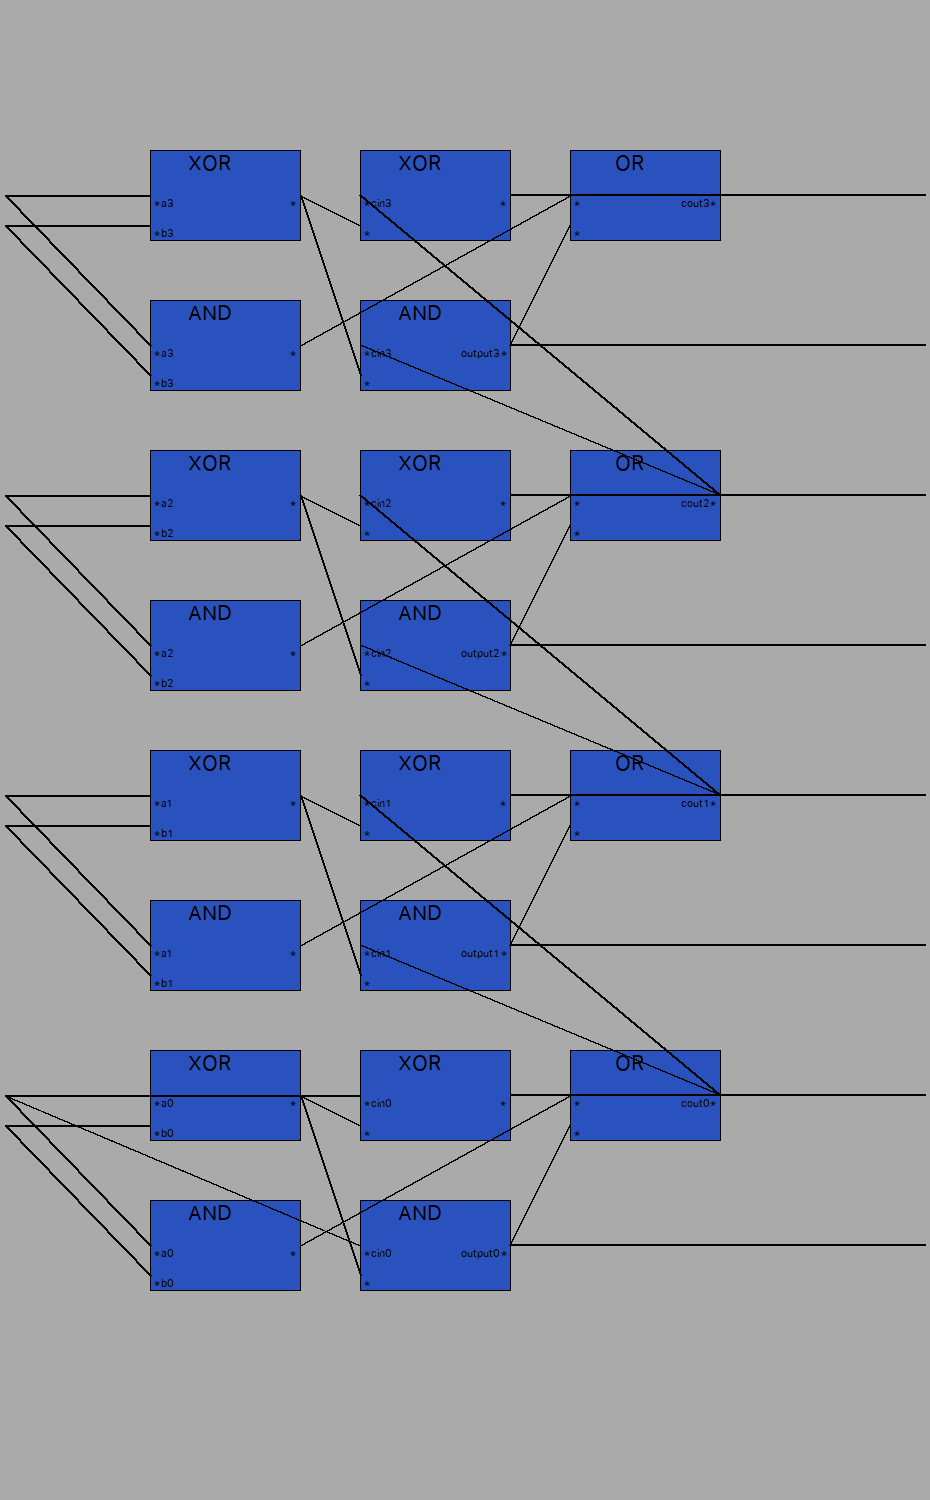
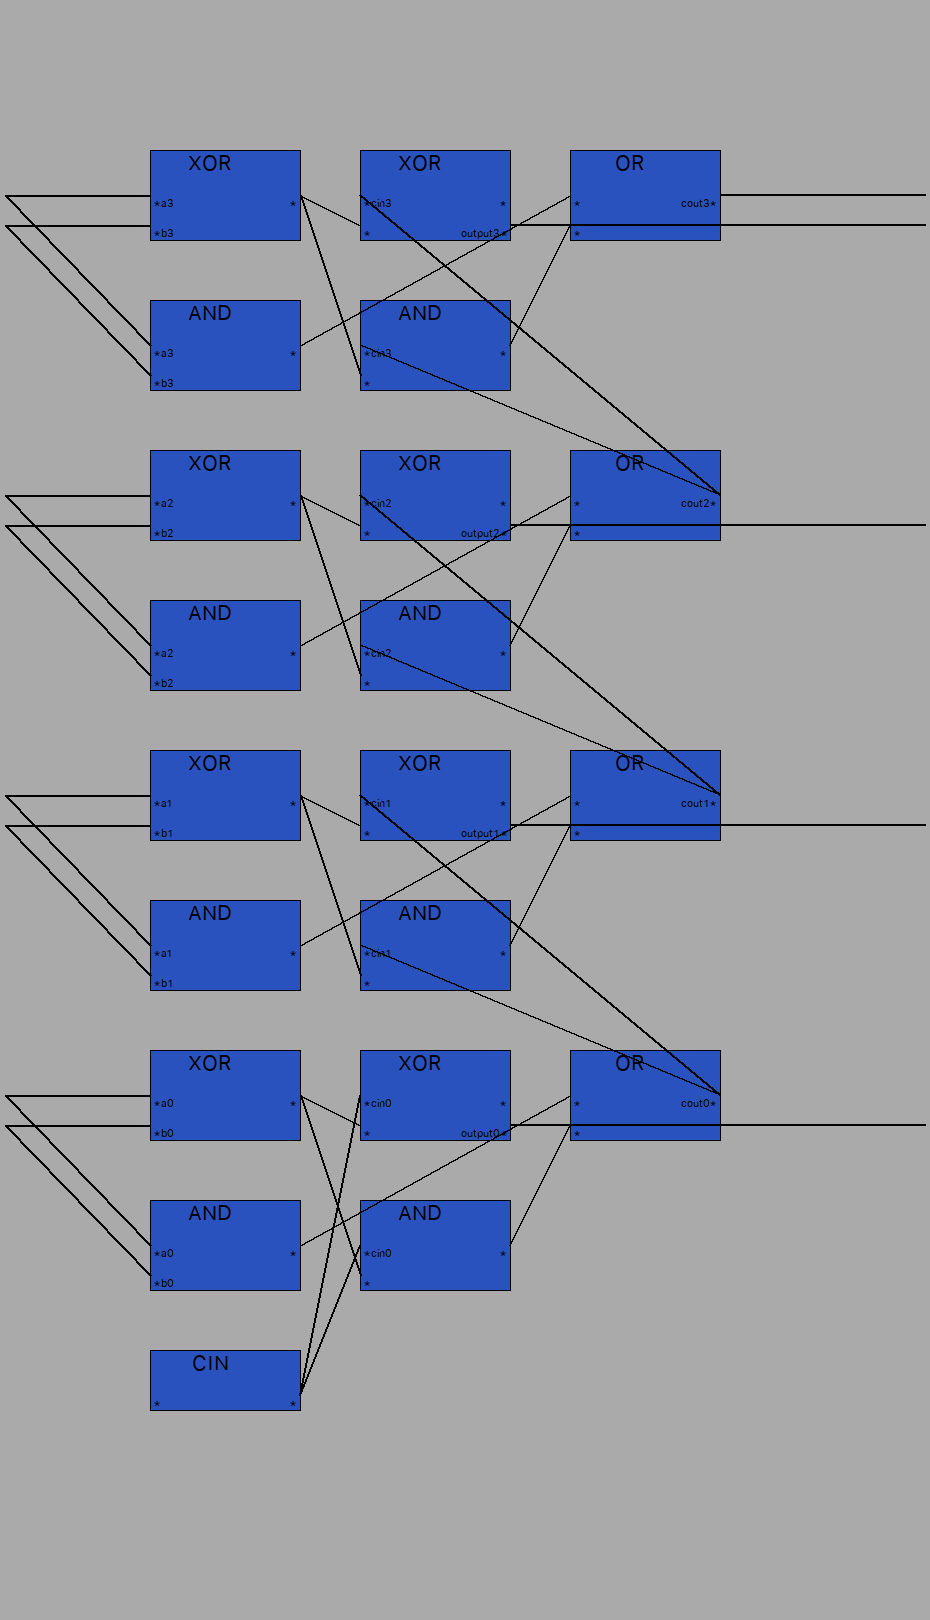
UpdateReadme
Fixed full adder example

Changed region(s): [[0.0, 0.092, 0.9978, 0.8893], [0.0, 0.4907, 0.1247, 0.5827]]

diff --git a/main.py b/main.py
@@ -8,8 +8,8 @@ def fullBuild(inputString):
     newBoard.drawBoard()
 
 inputStr = """
-    {CIN:NA_->cin0}$(3,0)[{XOR: a&.a&, b&.b& -> fg&}{AND: a&.a&, b&.b& -> fcout&}];
-    $(3,0)[{XOR: cin&.cin&, fg& -> sg&^}{AND: cin&.cin&, fg& -> scout&^.output&}];
+    $(3,0)[{XOR: a&.a&, b&.b& -> fg&}{AND: a&.a&, b&.b& -> fcout&}]{CIN:NA_->cin0};
+    $(3,0)[{XOR: cin&.cin&, fg& ->_,sg&^.output&}{AND: cin&.cin&, fg& -> scout&}];
     $(3,0)[{OR: fcout&, scout& -> cin(&+1).cout&#10}]
     """
 inputStr2 = """$(0,3)[{CoolBlock&: a&.nameOfA&, b&.nameOfB&->c&.nameOfC&}]"""

diff --git a/README.md b/README.md
@@ -89,10 +89,9 @@ Note: Wires are currently simply drawn as straight lines.
 4-bit Full Adder:
 
 ```
-$(3,0)[{XOR: a&.a&, b&.b& -> fg&}{AND: a&.a&, b&.b& -> fcout&}];
-$(3,0)[{XOR: cin&.cin&, fg& -> sg&^}{AND: cin&.cin&, fg& -> scout&^.output&}];
-$(3,0)[{OR: fcout&, scout& -> cin(&+1).cout&#10}
-]
+$(3,0)[{XOR: a&.a&, b&.b& -> fg&}{AND: a&.a&, b&.b& -> fcout&}]{CIN:NA_->cin0};
+$(3,0)[{XOR: cin&.cin&, fg& ->_,sg&^.output&}{AND: cin&.cin&, fg& -> scout&}];
+$(3,0)[{OR: fcout&, scout& -> cin(&+1).cout&#10}]
 ```
 
 ![](images/sampleImage1.PNG)
